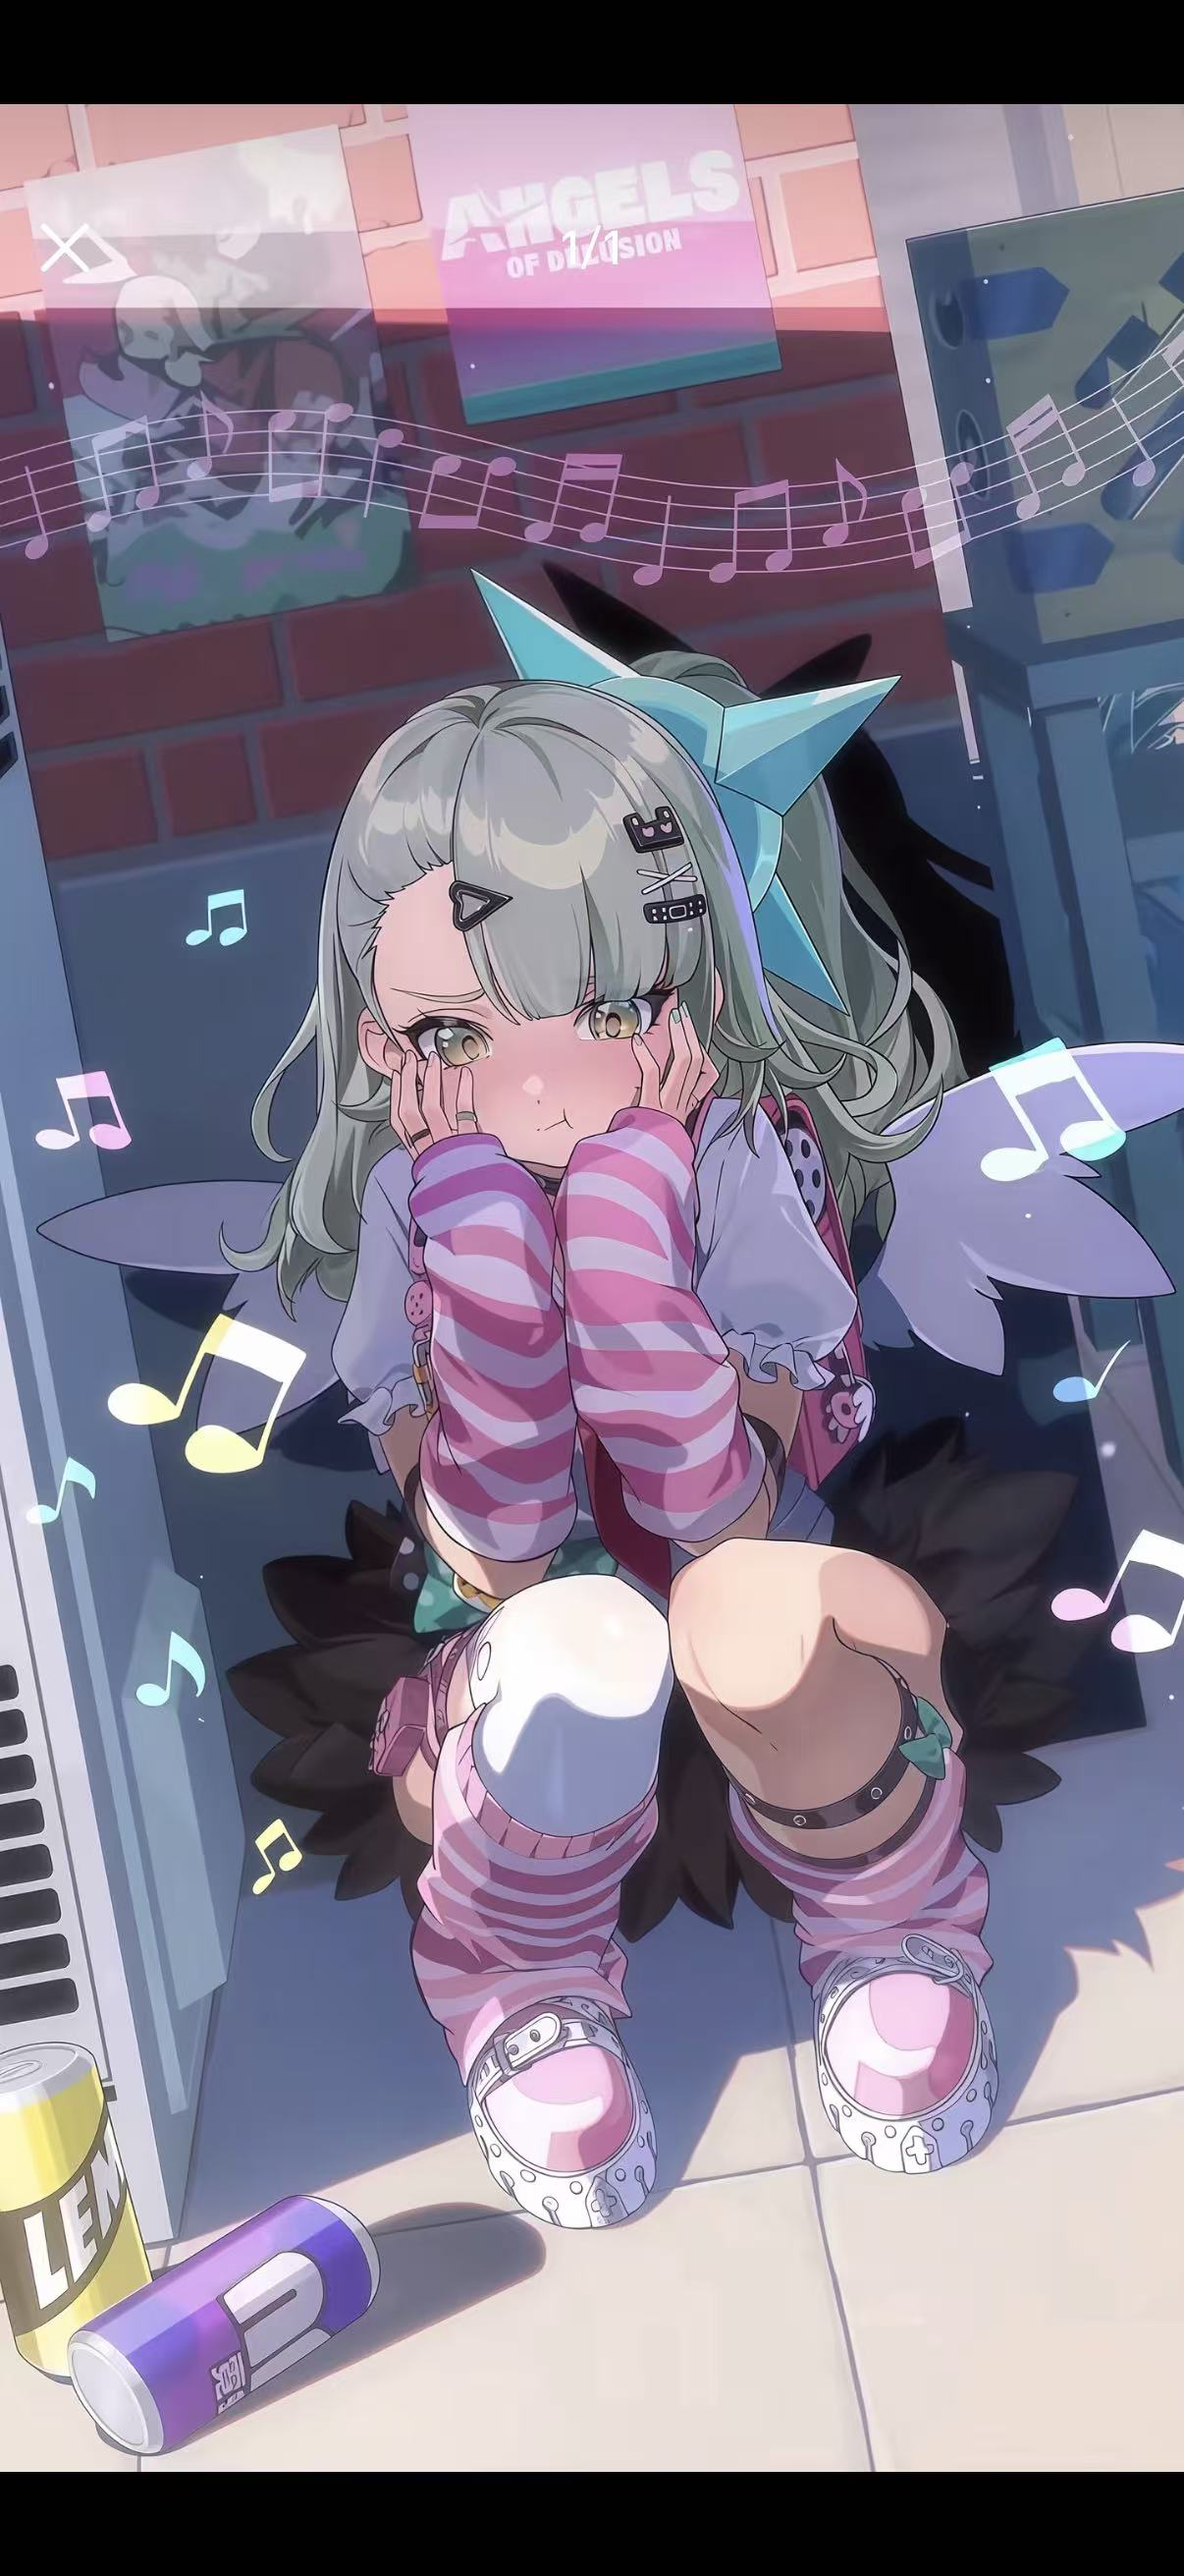
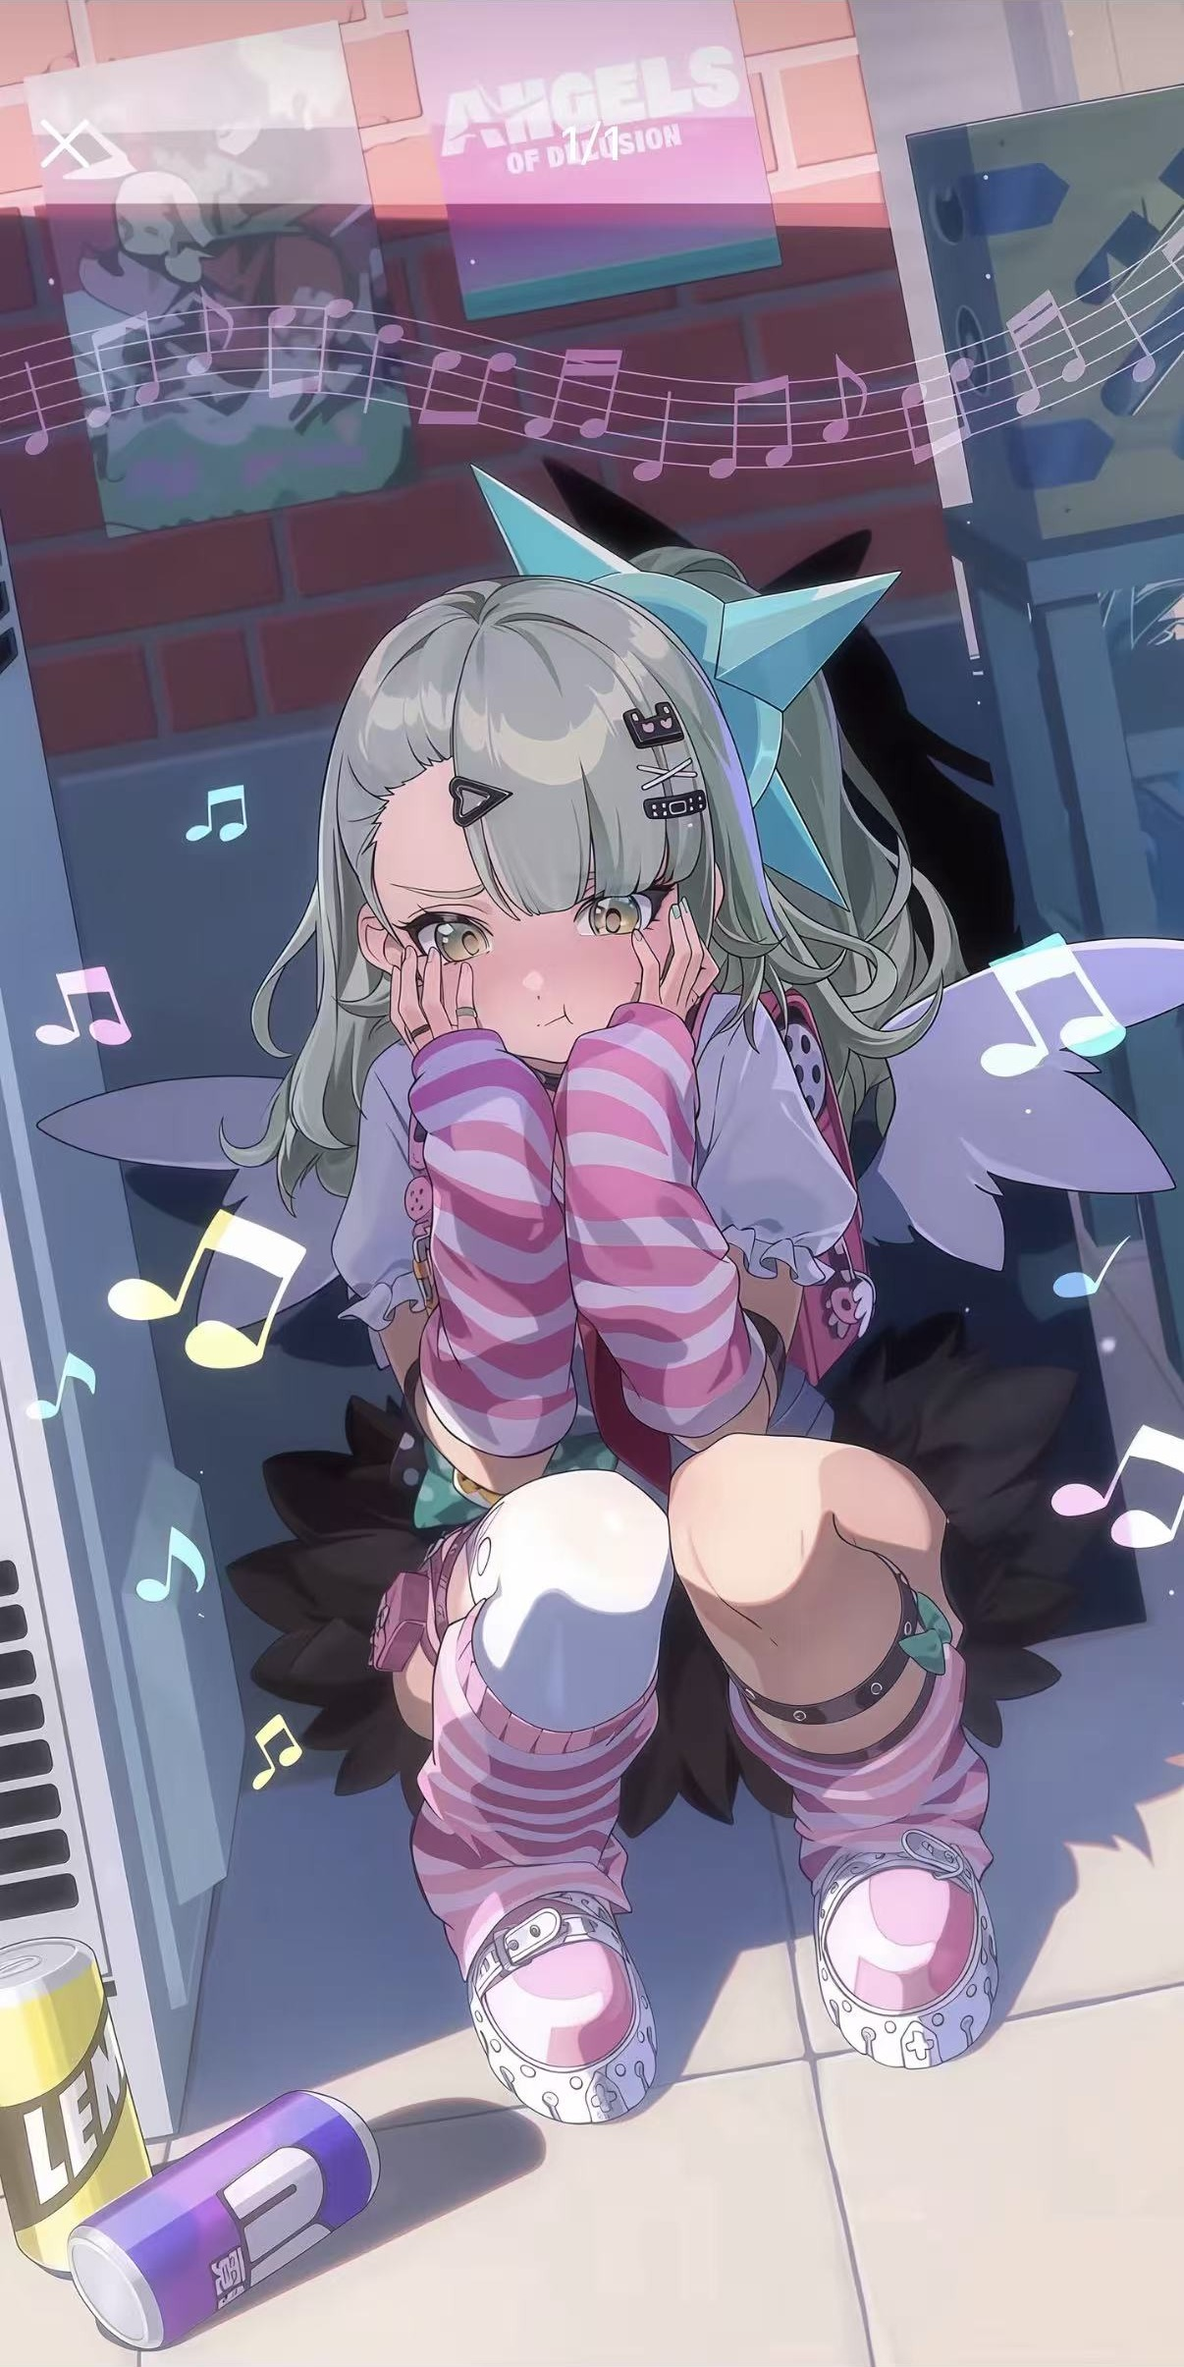
去掉 g1/g2 上下黑边，顶部横幅图片改为固定宽度展示

diff --git a/README.md b/README.md
@@ -1,6 +1,6 @@
 <div align="center">
 
-<img src="https://raw.githubusercontent.com/mugen520daima/mugen520daima/main/assets/gallery/g2.jpg" width="100%" alt="banner"/>
+<img src="https://raw.githubusercontent.com/mugen520daima/mugen520daima/main/assets/gallery/g2.jpg" width="330" alt="banner"/>
 
 <br><br>
 
